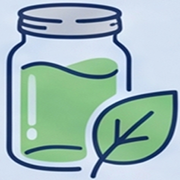
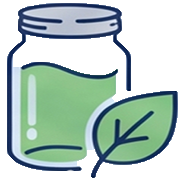
Update operational playbook

diff --git a/docs/OPERATIONS.md b/docs/OPERATIONS.md
@@ -270,3 +270,76 @@ Before deployment, run:
 cd ~/Documents/pdf-agent-project/pdf-agent-app
 nvm use 24
 npm run build
+
+# MFP Publication Agent Operational Playbook
+
+## 1. Architecture Overview
+
+The MFP Publication Agent is a Next.js 16 App Router application using TypeScript, Tailwind CSS, Supabase, OpenAI, Resend, and Vercel. Core areas include authentication, chat, publications, admin, and PDF processing. The current architecture documentation identifies these as the major app areas. :contentReference[oaicite:0]{index=0}
+
+Primary user workflows:
+- Users sign in through Supabase Auth.
+- Users ask publication questions in `/chat`.
+- The app retrieves relevant publication content and returns cited answers.
+- Admins manage PDFs, access requests, feedback, issues, analytics, trusted answers, and enhancements.
+- Uploaded PDFs are processed into searchable page-level records.
+
+## 2. Folder Structure Explanation
+
+The app uses the Next.js App Router structure. The current file tree includes `/app`, `/app/api`, `/app/admin`, `/app/chat`, `/app/publications`, `/docs`, `/lib/supabase`, and `/public`. :contentReference[oaicite:1]{index=1}
+
+Key folders:
+- `/app` — pages, layouts, and route groups
+- `/app/api` — server-side API routes
+- `/app/admin` — admin dashboard and admin review pages
+- `/app/chat` — main AI chat interface
+- `/app/publications` — active publication library
+- `/lib/supabase` — Supabase browser/server clients
+- `/public` — icons, logos, screenshots, and static assets
+- `/docs` — architecture, database, routes, changelog, and operations documentation
+
+## 3. Supabase Setup
+
+Supabase supports:
+- Authentication
+- User profiles
+- Access requests
+- Documents
+- Document pages
+- Chat history
+- Feedback
+- Issue reports
+- Trusted answers
+- Admin notes
+- Enhancement requests
+- Storage bucket for PDFs
+
+Important tables currently documented include `profiles`, `access_requests`, `admin_notes`, `enhancement_requests`, and `issue_reports`. The `profiles` table also includes activity tracking fields such as `last_activity_at`, `last_login_at`, `last_chat_at`, and `total_questions_asked`. :contentReference[oaicite:2]{index=2}
+
+## 4. Resend Setup
+
+Resend is used for branded app emails, including:
+- User invitation emails
+- Resent setup links
+- Access approval messages
+- Issue notifications
+
+Operational checks:
+- Confirm Resend API key is present in Vercel and `.env.local`.
+- Confirm sender domain is verified.
+- Confirm invitation emails are delivered after access approval.
+- Confirm password setup/reset links route users to `/update-password`.
+
+## 5. Vercel Deployment
+
+Deployment is handled through Vercel.
+
+Standard deployment process:
+```bash
+cd ~/Documents/pdf-agent-project/pdf-agent-app
+nvm use 24
+npm run build
+git status
+git add .
+git commit -m "Update operational playbook"
+git push